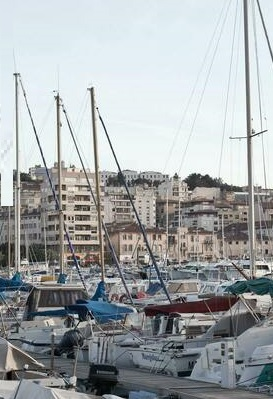
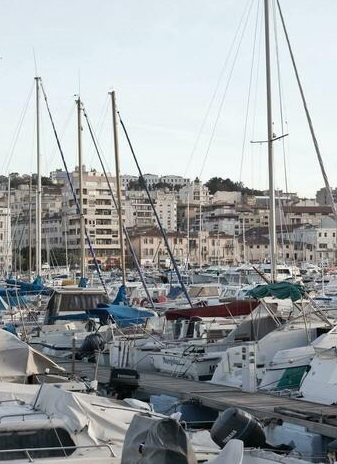
ajustement d'image plus  corrections du texte

diff --git a/index.html b/index.html
@@ -34,15 +34,14 @@
   </div>
   <nav>
     <div id="filtres">
-      <P>Filtre</P>
+      <P>Filtres</P>
       <div class="filtre"><span class="cercle"><i class="fas fa-money-bill-wave" aria-hidden="true"></i></span><a
           href="#">Economique</a></div>
       <div class="filtre"><span class="cercle"><i class="fas fa-child" aria-hidden="true"></i></span><a
           href="#">Familial</a></div>
       <div class="filtre"><span class="cercle"><i class="fas fa-heart" aria-hidden="true"></i></span><a
           href="#">Romantique</a></div>
-      <div class="filtre"><span class="cercle"><i class="fas fa-dog" aria-hidden="true"></i></span><a href="#">Animaux 
-          autorises</a></div>
+      <div class="filtre"><span class="cercle"><i class="fas fa-dog" aria-hidden="true"></i></span><a href="#">Animaux autorises</a></div>
     </div>
   </nav>
   </div>
@@ -71,7 +70,7 @@
           <a href="#">
             <div class="hotelduport">
               <img src="images/hotel_le port.jpg" id="hotelduport2" alt="hotel du Port" />
-              <div class="titre">Hotel du Port</div>
+              <div class="titre">Hotel du port</div>
               <div class="description">Nuit a partir de 52€</div>
               <div class="etoiles"><span class="blue"><i class="fas fa-star"></i>
                   <i class="fas fa-star"></i><i class="fas fa-star"></i><i class="fas fa-star"></i>
@@ -81,7 +80,7 @@
           <a href="#">
             <div class="lesmouettes">
               <img src="images/mouettes.jpg" id="lesmouettes2" alt="hotel les mouettes" />
-              <div class="titre">Hotel les mouettes</div>
+              <div class="titre">Hotel Les mouettes</div>
               <div class="description">Nuit a partir de 76€</div>
               <div class="etoiles"><span class="blue">
                   <i class="fas fa-star"></i><i class="fas fa-star"></i><i class="fas fa-star"></i>
@@ -136,7 +135,7 @@
           <a href="#">
             <div class="hotelsoleil">
               <img src="images/hotel_le_soleil.jpg" id="hotelsoleil2" alt=" hotel le soleil" />
-              <div class="titre">Hotel le soleil du matin</div>
+              <div class="titre">Hotel Le soleil du matin</div>
               <div class="description">Nuit a partir de 128€</div>
               <div class="etoiles"><span class="blue"><i class="fas fa-star"></i>
                   <i class="fas fa-star"></i><i class="fas fa-star"></i><i class="fas fa-star"></i>
@@ -156,7 +155,7 @@
           <a href="#">
             <div class="hotelblue">
               <img src="images/tout_blue.jpg" id="hotelblue2" alt="hotel tout bleu et blanc" />
-              <div class="titre">Hotel tout blue et Blanc</div>
+              <div class="titre">Hotel Tout blue et Blanc</div>
               <div class="description">Nuit a partir de 68€</div>
               <div class="etoiles"><span class="blue"><i class="fas fa-star">
                   </i><i class="fas fa-star"></i><i class="fas fa-star"></i><i class="fas fa-star"></i></span>
@@ -177,7 +176,7 @@
           <a href="#">
             <div class="calanques">
               <img src="images/bateau_small.jpg" id="vieuxport2" alt="Vieux port" />
-              <div class="titre">Vieux port</div>
+              <div class="titre">Vieux Port</div>
             </div>
           </a>
         </div>
@@ -191,7 +190,7 @@
           <a href="#">
             <div class="friouil">
               <img src="images/lamer_small.jpg" id="friouil2" alt="Iles du Frioul" />
-              <div class="titre">Iles du Friou</div>
+              <div class="titre">Iles du Frioul</div>
             </div>
           </a>
         </div>
@@ -201,8 +200,9 @@
             <div class="calanques">
               <img src="images/falaises_small.jpg" id="calanques2" alt="Parc National des Calanques" />
               <div class="titre">Parc National des Calanques</div>
-          </a>
-        </div>
+            </div>
+           </a>
+          </div>
         <div class="activite4">
           <a href="#">
             <div class="notredame">
@@ -213,7 +213,7 @@
           <a href="#">
             <div class="longchamp">
               <img src="images/monastére_small.jpg" id="longchamp2" alt="Parc Longchamp" />
-              <div class="titre">Farc Longchamp</div>
+              <div class="titre">Parc Longchamp</div>
             </div>
           </a>
         </div>
@@ -227,12 +227,12 @@
     <div id="propos">
       <h3>A propos</h3>
       <p><a href="#">Fonctionnement du site</a></p>
-      <p><a href="#">Conditiond gènérales de vente</a></p>
-      <p><a href="#">Donnés et confidentialités</a></p>
+      <p><a href="#">Conditions generales de vente</a></p>
+      <p><a href="#">Donnees et confidentialite</a></p>
     </div>
     <div id="hebergements">
-      <h3>Nos hebergement</h3>
-      <p><a href="#">Charte qualitè</a></p>
+      <h3>Nos hebergements</h3>
+      <p><a href="#">Charte qualite</a></p>
       <p><a href="#">Soumettre votre hotel</a></p>
     </div>
     <div id="assistance">

diff --git a/styles.css b/styles.css
@@ -515,7 +515,8 @@ font-weight: bold;
  } 
  img#vieuxport2
  {
-    height:130%;
+    width:245px ;
+    height:410px;
     border-radius:10px 10px 0px 0px; 
     
 } 
@@ -535,14 +536,14 @@ font-weight: bold;
 }
 img#pomegues2
 {
-height:172px;
+width: 250px; 
+height:170px;
 border-radius:10px 10px 0px 0px; 
 
 }
 
 .friouil
 {
-
     border-radius:15px;
     background-color:white;
     box-shadow:0 0 20px #b1b1b1;
@@ -550,7 +551,8 @@ border-radius:10px 10px 0px 0px;
 }
 img#friouil2
 {
-height:90px;
+width:250px ;
+height:100px;
 border-radius:10px 10px 0px 0px;
 }
 .activite3
@@ -571,7 +573,8 @@ border-radius:10px 10px 0px 0px;
 }
 img#calanques2
 {
-height:92%;
+width:245px;
+height:190%;
 border-radius:10px 10px 0px 0px;
 
 
@@ -594,8 +597,8 @@ border-radius:10px 10px 0px 0px;
 }
 img#notredame2
 {
-
-height:145px;
+width:260px;
+height:140px;
 border-radius:10px 10px 0px 0px;
 }
 
@@ -608,8 +611,8 @@ border-radius:10px 10px 0px 0px;
     
 }
 img#longchamp2
-{
-    height: 167px;
+{   width: 260px;
+    height: 110px;
     border-radius:10px 10px 0px 0px;
 
 }
